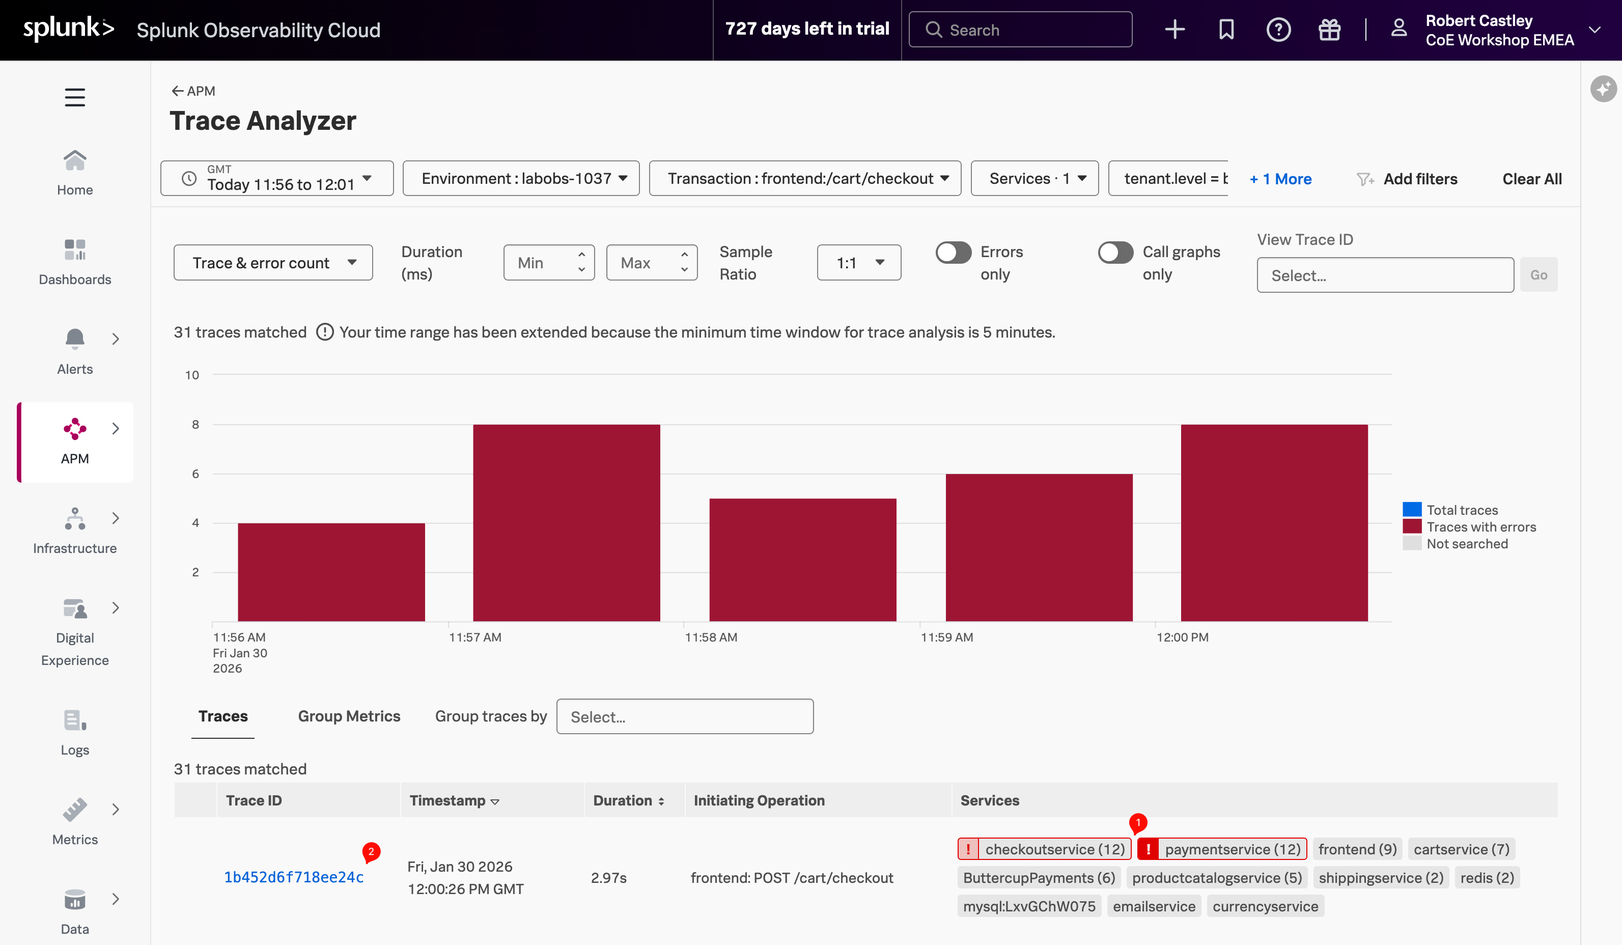
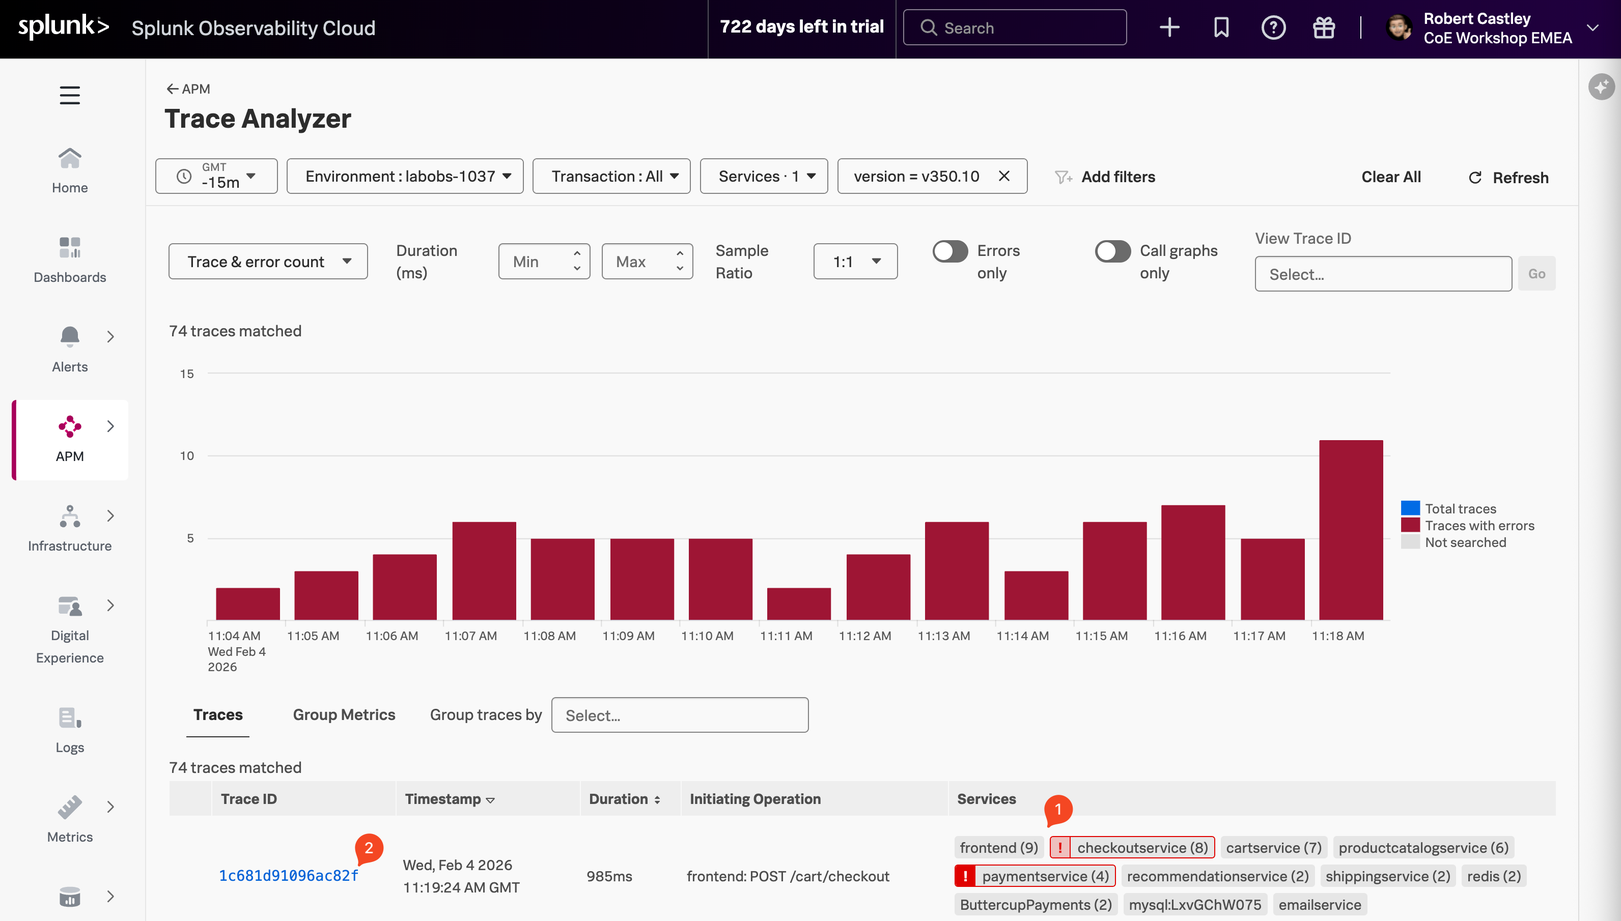
Improved APM workflow

diff --git a/content/en/splunk4rookies/observability-cloud/8-synthetics/4-synthetics-detector.md b/content/en/splunk4rookies/observability-cloud/8-synthetics/4-synthetics-detector.md
@@ -14,12 +14,12 @@ Given you can run these tests 24/7, it is an ideal tool to get warned early if y
 * Select the workshop test again and click the {{% button %}}**Create Detector**{{% /button %}} button at the top of the page.
 
   ![synth detector](../images/synth-detector.png)
-* Edit the text **New Synthetics Detector** (**1**) and replace it with `INITIALS - [WORKSHOPNAME]`.
+* Edit the text **New Synthetics Detector** **(1)** and replace it with `INITIALS - [WORKSHOPNAME]`.
 * Change the alert criteria so that the metric is Run Duration (instead of Uptime) and the condition is Static Threshold.
-* Set the **Trigger threshold** (**2**) to be around `65,000` to `68,000` and hit enter to update the chart.  Make sure you have more than one spike cutting through the threshold line as shown above (you may have to adjust the threshold value a bit to match your actual latency).
+* Set the **Trigger threshold** **(2)** to be around `65,000` to `68,000` and hit enter to update the chart.  Make sure you have more than one spike cutting through the threshold line as shown above (you may have to adjust the threshold value a bit to match your actual latency).
 * Leave the rest as default.
-* Note that there is now a row of red and white triangles appearing below the spikes (**3**). The red triangles let you know that your detector found that your test was above the given threshold & the white triangle indicates that the result returned below the threshold. Each red triangle will trigger an alert.
-* You can change the Alerts criticality (**4**) by changing the drop-down to a different level, as well as the method of alerting.  Make sure you do **NOT** add a Recipient as this could lead to you being subjected to an alert storm!
+* Note that there is now a row of red and white triangles appearing below the spikes **(3)**. The red triangles let you know that your detector found that your test was above the given threshold & the white triangle indicates that the result returned below the threshold. Each red triangle will trigger an alert.
+* You can change the Alerts criticality **(4)** by changing the drop-down to a different level, as well as the method of alerting.  Make sure you do **NOT** add a Recipient as this could lead to you being subjected to an alert storm!
 * Click {{% button style="blue" %}}Activate{{% /button %}} to deploy your detector.
 * To see your new created detector click {{% button %}}Edit Test{{% /button %}} button
 * At the bottom of the page is a list of active detectors.

diff --git a/content/en/splunk4rookies/financial-services-observability-cloud/3-quick-tour/4-infrastructure-home/1-infrastructure-home.md b/content/en/splunk4rookies/financial-services-observability-cloud/3-quick-tour/4-infrastructure-home/1-infrastructure-home.md
@@ -18,7 +18,7 @@ Using the Infrastructure pane, we can select the infrastructure/technology we ar
 
 {{% notice title="Exercise" style="green" icon="running" %}}
 
-* Under the **Containers** section in the Integrations Pane (**3**), select **Kubernetes** as the technology you wish to examine.
+* Under the **Containers** section in the Integrations Pane **(3)**, select **Kubernetes** as the technology you wish to examine.
 * This should show you two tiles, **K8s Nodes** and **K8s Workloads**.
 * The bottom part of each tile will have a history graph and the top part will show notifications for alerts that fired. Across all tiles, this additional information on each of the tiles will give you a good overview of the health of your infrastructure.
 * Click on the **K8s Nodes** tile.
@@ -28,8 +28,8 @@ Using the Infrastructure pane, we can select the infrastructure/technology we ar
 
   ![cluster](../images/k8s-cluster.png)
 
-* The Kubernetes Navigator uses color to indicate health. As you can see there are two pods or services that are unhealthy and in a Failed state (**1**). The rest are healthy and running. This is not uncommon in shared Kubernetes environments, so we replicated that for the workshop.
-* Note the tiles to the side, under **Nodes dependencies** (**2**), specifically the MySQL and Redis tiles. These are the two databases used by our e-commerce application.
+* The Kubernetes Navigator uses color to indicate health. As you can see there are two pods or services that are unhealthy and in a Failed state **(1)**. The rest are healthy and running. This is not uncommon in shared Kubernetes environments, so we replicated that for the workshop.
+* Note the tiles to the side, under **Nodes dependencies** **(2)**, specifically the MySQL and Redis tiles. These are the two databases used by our e-commerce application.
 
 {{% /notice %}}
 
@@ -54,7 +54,7 @@ The UI will show services that are running on the node you have selected if they
 {{< /tabs >}}
 
 * Click the tile, it will bring us back into the Kubernetes Navigator, this time at the Pod level showing the Pod that runs the Redis Service.
-* To return to the Cluster level, simply click on the link **Cluster** (**1**) at the top of the screen.
+* To return to the Cluster level, simply click on the link **Cluster** **(1)** at the top of the screen.
 
 ![node](../images/node-link.png)
 

diff --git a/content/en/splunk4rookies/observability-cloud/3-quick-tour/6-infrastructure-home/1-infrastructure-home.md b/content/en/splunk4rookies/observability-cloud/3-quick-tour/6-infrastructure-home/1-infrastructure-home.md
@@ -18,7 +18,7 @@ Using the Infrastructure pane, we can select the infrastructure/technology we ar
 
 {{% notice title="Exercise" style="green" icon="running" %}}
 
-* Under the **Containers** section in the Integrations Pane (**3**), select **Kubernetes** as the technology you wish to examine.
+* Under the **Containers** section in the Integrations Pane **(3)**, select **Kubernetes** as the technology you wish to examine.
 * This should show you two tiles, **K8s Nodes** and **K8s Workloads**.
 * The bottom part of each tile will have a history graph and the top part will show notifications for alerts that fired. Across all tiles, this additional information on each of the tiles will give you a good overview of the health of your infrastructure.
 * Click on the **K8s Nodes** tile.
@@ -28,8 +28,8 @@ Using the Infrastructure pane, we can select the infrastructure/technology we ar
 
   ![cluster](../images/k8s-cluster.png)
 
-* The Kubernetes Navigator uses color to indicate health. As you can see there are two pods or services that are unhealthy and in a Failed state (**1**). The rest are healthy and running. This is not uncommon in shared Kubernetes environments, so we replicated that for the workshop.
-* Note the tiles to the side, under **Nodes dependencies** (**2**), specifically the MySQL and Redis tiles. These are the two databases used by our e-commerce application.
+* The Kubernetes Navigator uses color to indicate health. As you can see there are two pods or services that are unhealthy and in a Failed state **(1)**. The rest are healthy and running. This is not uncommon in shared Kubernetes environments, so we replicated that for the workshop.
+* Note the tiles to the side, under **Nodes dependencies** **(2)**, specifically the MySQL and Redis tiles. These are the two databases used by our e-commerce application.
 
 {{% /notice %}}
 
@@ -54,7 +54,7 @@ The UI will show services that are running on the node you have selected if they
 {{< /tabs >}}
 
 * Click the tile, it will bring us back into the Kubernetes Navigator, this time at the Pod level showing the Pod that runs the Redis Service.
-* To return to the Cluster level, simply click on the link **Cluster** (**1**) at the top of the screen.
+* To return to the Cluster level, simply click on the link **Cluster** **(1)** at the top of the screen.
 
 ![node](../images/node-link.png)
 

diff --git a/content/en/splunk4rookies/financial-services-observability-cloud/6-custom-dashboard/2-add-chart.md b/content/en/splunk4rookies/financial-services-observability-cloud/6-custom-dashboard/2-add-chart.md
@@ -12,11 +12,11 @@ In this section, we are going to use the **Copy and Paste** functionality to ext
 * Select the **2+** at the top of the page and select **Paste charts**, this will create the charts in your custom dashboard.
 * The chart currently shows data for all **Environments** and **Services**, so let's add a filter for our environment and the **paymentservice**.
 * Click on the 3 dots **...** at the top right side of the **Request Rate** single value chart. This will open the chart in edit mode.
-* In the new screen, click on the **x** in the {{% button style="blue" %}}sf_environment:* x{{% /button %}} button (**1**) in the middle of the screen to close it.
+* In the new screen, click on the **x** in the {{% button style="blue" %}}sf_environment:* x{{% /button %}} button **(1)** in the middle of the screen to close it.
 * Click on the {{% button style="blue" %}}**+**{{% /button %}}  to add a new filter and select **sf_environment** then pick the [WORKSHOPNAME] from the drop-down and hit **Apply**. The button will change to **sf_environment:[WORKSHOPNAME]**
-* Do the same with for the {{% button style="blue" %}}sf_service.{{% /button %}} button (**2**), close it and create a new filter for **sf_service**. Only this time change it to `paymentservice`.
+* Do the same with for the {{% button style="blue" %}}sf_service.{{% /button %}} button **(2)**, close it and create a new filter for **sf_service**. Only this time change it to `paymentservice`.
   ![edit chart](../images/edit-chart.png)
-* Click the {{% button style="blue" %}}Save and close {{% /button %}} button (**3**).
+* Click the {{% button style="blue" %}}Save and close {{% /button %}} button **(3)**.
 * Repeat the previous 4 steps for the **Request Rate** text chart
 * Click {{% button style="blue" %}}Save{{% /button %}} after you  have update the two charts.
 * As the new pasted charts appeared at the bottom of our dashboard, we need to re-organize our dashboard again.

diff --git a/content/en/splunk4rookies/observability-cloud/9-custom-dashboard/2-add-chart.md b/content/en/splunk4rookies/observability-cloud/9-custom-dashboard/2-add-chart.md
@@ -12,11 +12,11 @@ In this section, we are going to use the **Copy and Paste** functionality to ext
 * Select the **2+** at the top of the page and select **Paste charts**, this will create the charts in your custom dashboard.
 * The chart currently shows data for all **Environments** and **Services**, so let's add a filter for our environment and the **paymentservice**.
 * Click on the 3 dots **...** at the top right side of the **Request Rate** single value chart. This will open the chart in edit mode.
-* In the new screen, click on the **x** in the {{% button style="blue" %}}sf_environment:* x{{% /button %}} button (**1**) in the middle of the screen to close it.
+* In the new screen, click on the **x** in the {{% button style="blue" %}}sf_environment:* x{{% /button %}} button **(1)** in the middle of the screen to close it.
 * Click on the {{% button style="blue" %}}**+**{{% /button %}}  to add a new filter and select **sf_environment** then pick the [WORKSHOPNAME] from the drop-down and hit **Apply**. The button will change to **sf_environment:[WORKSHOPNAME]**
-* Do the same with for the {{% button style="blue" %}}sf_service.{{% /button %}} button (**2**), close it and create a new filter for **sf_service**. Only this time change it to `paymentservice`.
+* Do the same with for the {{% button style="blue" %}}sf_service.{{% /button %}} button **(2)**, close it and create a new filter for **sf_service**. Only this time change it to `paymentservice`.
   ![edit chart](../images/edit-chart.png)
-* Click the {{% button style="blue" %}}Save and close {{% /button %}} button (**3**).
+* Click the {{% button style="blue" %}}Save and close {{% /button %}} button **(3)**.
 * Repeat the previous 4 steps for the **Request Rate** text chart
 * Click {{% button style="blue" %}}Save{{% /button %}} after you  have update the two charts.
 * As the new pasted charts appeared at the bottom of our dashboard, we need to re-organize our dashboard again.

diff --git a/content/en/splunk4rookies/financial-services-observability-cloud/5-log-observer/1-log-filtering.md b/content/en/splunk4rookies/financial-services-observability-cloud/5-log-observer/1-log-filtering.md
@@ -5,7 +5,7 @@ weight: 1
 
 **Log Observer (LO)**, can be used in multiple ways. In the quick tour, you used the LO **no-code interface** to search for specific entries in the logs. This section, however, assumes you have arrived in LO from a trace in APM using the **Related Content** link.
 
-The advantage of this is, as it was with the link between RUM & APM, that you are looking at your logs within the context of your previous actions.  In this case, the context is the time frame (**1**),  which matches that of the trace and the filter (**2**) which is set to the **trace_id**.
+The advantage of this is, as it was with the link between RUM & APM, that you are looking at your logs within the context of your previous actions.  In this case, the context is the time frame **(1)**,  which matches that of the trace and the filter **(2)** which is set to the **trace_id**.
 
 ![Trace Logs](../images/log-observer-trace-logs.png)
 
@@ -20,7 +20,7 @@ We need to focus on just the Error messages in the logs:
 * Click on the **Group By** drop-down box and use the filter to find **Severity**.
 * Once selected click the {{% button style="blue" %}}Apply{{% /button %}} button (notice that the chart legend changes to show debug, error and info).
   ![legend](../images/severity-logs.png)
-* Selecting just the error logs can be done by either clicking on the word error (**1**) in the legend, followed by selecting **Add to filter**. Then click {{% button style="blue" %}}Run Search{{% /button %}}
+* Selecting just the error logs can be done by either clicking on the word error **(1)** in the legend, followed by selecting **Add to filter**. Then click {{% button style="blue" %}}Run Search{{% /button %}}
 * You could also add the service name, `sf_service=wire-transfer-service`, to the filter if there are error lines for multiple services, but in our case, this is not necessary.
   ![Error Logs](../images/log-observer-errors.png)
 

diff --git a/content/en/splunk4rookies/observability-cloud/7-log-observer/1-log-filtering.md b/content/en/splunk4rookies/observability-cloud/7-log-observer/1-log-filtering.md
@@ -5,7 +5,7 @@ weight: 1
 
 **Log Observer (LO)**, can be used in multiple ways. In the quick tour, you used the LO **no-code interface** to search for specific entries in the logs. This section, however, assumes you have arrived in LO from a trace in APM using the **Related Content** link.
 
-The advantage of this is, as it was with the link between RUM & APM, that you are looking at your logs within the context of your previous actions.  In this case, the context is the time frame (**1**),  which matches that of the trace and the filter (**2**) which is set to the **trace_id**.
+The advantage of this is, as it was with the link between RUM & APM, that you are looking at your logs within the context of your previous actions.  In this case, the context is the time frame **(1)**,  which matches that of the trace and the filter **(2)** which is set to the **trace_id**.
 
 ![Trace Logs](../images/log-observer-trace-logs.png)
 
@@ -20,7 +20,7 @@ We need to focus on just the Error messages in the logs:
 * Click on the **Group By** drop-down box and use the filter to find **Severity**.
 * Once selected click the {{% button style="blue" %}}Apply{{% /button %}} button (notice that the chart legend changes to show debug, error and info).
   ![legend](../images/severity-logs.png)
-* Selecting just the error logs can be done by either clicking on the word error (**1**) in the legend, followed by selecting **Add to filter**. Then click {{% button style="blue" %}}Run Search{{% /button %}}
+* Selecting just the error logs can be done by either clicking on the word error **(1)** in the legend, followed by selecting **Add to filter**. Then click {{% button style="blue" %}}Run Search{{% /button %}}
 * You could also add the service name, `sf_service=paymentservice`, to the filter if there are error lines for multiple services, but in our case, this is not necessary.
   ![Error Logs](../images/log-observer-errors.png)
 

diff --git a/content/en/splunk4rookies/WIL - Cisco Live/4-apm/4-apm-service-breakdown.md b/content/en/splunk4rookies/WIL - Cisco Live/4-apm/4-apm-service-breakdown.md
@@ -7,25 +7,22 @@ weight: 4
 
 * Select the **paymentservice** in the Service Map.
 * In the right-hand pane click on the {{% button style="grey"  %}}Breakdown{{% /button %}}.
-* Select `tenant.level` in the list.
-* Back in the Service Map click on **gold**.
-* Click on {{% button style="grey"  %}}Breakdown{{% /button %}} and select `version`, this is the tag that exposes the service version.
-* Repeat this for **silver** and **bronze**.
+* Select `version` in the list.
 {{< tabs >}}
 {{% tab title="Question" %}}
 **What can you conclude from what you are seeing?**
 {{% /tab %}}
 {{% tab title="Answer" %}}
-**Every `tenant.level` is being impacted by `v350.10`**
+**There are no errors for `v350.9`, but `v350.10` clearly has a problem.**
 {{% /tab %}}
 {{< /tabs >}}
 
 ![APM Service Breakdown](../images/apm-service-breakdown.png)
 
 {{% notice title="Span Tags" style="info" %}}
-Using span tags to break down services is a very powerful feature. It allows you to see how your services are performing for different customers, different versions, different regions, etc. In this exercise, we have determined that `v350.10` of the **paymentservice** is causing problems for all our customers.
+Using span tags to break down services is a very powerful feature. It allows you to see how your services are performing for different customers, different versions, different regions, etc. In this exercise, we have determined that `v350.10` of the **paymentservice** is causing problems.
 {{% /notice %}}
 
-* Next, we need to drill down into a trace to see what is going on. Select one of the red circles in the **paymentservice**, then click on the **Traces** tab in the right-hand pane.
+* Next, we need to drill down into a trace to see what is going on. Click on the red circle for `v350.10` **(1)** in the **paymentservice**, then click on the **Traces** **(2)** tab in the right-hand pane.
 
 {{% /notice %}}

diff --git a/content/en/splunk4rookies/WIL - Cisco Live/3-rum/1-rum-overview.md b/content/en/splunk4rookies/WIL - Cisco Live/3-rum/1-rum-overview.md
@@ -5,7 +5,7 @@ weight: 1
 
 {{% notice title="Exercise" style="green" icon="running" %}}
 
-* In Splunk Observability Cloud, from the main menu, hover over **Digital Experience**, then click on **Overview** (**1**) from the **Real User Monitoring** section as shown below.
+* In Splunk Observability Cloud, from the main menu, hover over **Digital Experience**, then click on **Overview** **(1)** from the **Real User Monitoring** section as shown below.
 
 ![RUM](../images/rum-de.png)
 
@@ -13,12 +13,12 @@ weight: 1
 
 * The Real User Monitoring (RUM) Overview dashboard in Splunk Observability Cloud provides visibility into how real users experience your web applications. It captures browser-side performance metrics, JavaScript errors, and network request failures as they occur in actual user sessions. The dashboard surfaces Core Web Vitals (LCP, INP, CLS) to measure page load performance, displays error trends over time, and shows recent alerts, giving frontend teams the insights needed to identify and resolve issues affecting end-user experience.
 
-* To ensure we are looking at the right data, please check the following settings (**2**):
+* To ensure we are looking at the right data, please check the following settings **(2)**:
   * The **Time frame** is set to **-15m**.
   * The **Environment** selected is **labobs-1037**.
   * The **App** selected is **labobs-1037-store**.
   * The **Source** is set to **Browser**.
-* Next, click on the **labobs-1037-store** (**3**) above the **Page Views / JavaScript Errors** chart.
+* Next, click on the **labobs-1037-store** **(3)** above the **Page Views / JavaScript Errors** chart.
 
 ![main page](../images/rum-dashboard.png)
 

diff --git a/content/en/splunk4rookies/WIL - Cisco Live/4-apm/1-apm-service-map.md b/content/en/splunk4rookies/WIL - Cisco Live/4-apm/1-apm-service-map.md
@@ -11,21 +11,20 @@ You can see the services involved in the workflow in the **Service Map**. In the
 
 {{% notice title="Exercise" style="green" icon="running" %}}
 
-* Click on the **paymentservice** in the Service Map.
+* Click on the **paymentservice** in the Service Map to select it.
 
 ![APM Explore](../images/apm-business-workflow.png)
 
-Splunk APM also provides built-in **Service Centric Views** to help you see problems occurring in real time and quickly determine whether the problem is associated with a service, a specific endpoint, or the underlying infrastructure. Let's have a closer look.
-
 {{< tabs >}}
 {{% tab title="Question" %}}
-**With the `paymentservice` selected, what can you conclude from the Service Requests & Errors chart in the side pane?** (**1**)
+**With the `paymentservice` selected, what can you conclude from the Service Requests & Errors chart in the side pane?** **(1)**
 {{% /tab %}}
 {{% tab title="Answer" %}}
 **The Errors percentage is very high.**
 {{% /tab %}}
 {{< /tabs >}}
 
-* In the right-hand pane, click on **paymentservice** in blue (**2**).
+* Splunk APM also provides built-in **Service Centric Views** to help you see problems occurring in real time and quickly determine whether the problem is associated with a service, a specific endpoint, or the underlying infrastructure. Let's have a closer look.
+* In the right-hand pane, click on **paymentservice** in blue **(2)**.
 
 {{% /notice %}}

diff --git a/content/en/splunk4rookies/WIL - Cisco Live/3-rum/3-tag-spotlight.md b/content/en/splunk4rookies/WIL - Cisco Live/3-rum/3-tag-spotlight.md
@@ -9,11 +9,11 @@ weight: 3
 
 ![RUM Tag Spotlight](../images/rum-tag-spotlight.png)
 
-* Change the timeframe to **Last 1 hour** (**1**).
-<!--* Click **Add Filters**, select **OS Version**, click **!=** and select **Synthetics** and **RUM.LoadGen** then click the {{% button style="blue" %}}Apply Filter{{% /button %}} button (**2**).-->
-* Find the **Operation** chart, locate **PlaceOrder** in the list, click on it and select **Add to filter** (**2**).
-* Click on the **User Sessions** tab (**3**).
-* Click on the **Duration** heading twice to sort the sessions by duration (longest at the top) (**4**).
+* Change the timeframe to **Last 1 hour** **(1)**.
+<!--* Click **Add Filters**, select **OS Version**, click **!=** and select **Synthetics** and **RUM.LoadGen** then click the {{% button style="blue" %}}Apply Filter{{% /button %}} button **(2)**.-->
+* Find the **Operation** chart, locate **PlaceOrder** in the list, click on it and select **Add to filter** **(2)**.
+* Click on the **User Sessions** tab **(3)**.
+* Click on the **Duration** heading twice to sort the sessions by duration (longest at the top) **(4)**.
 
 * We now have a User Session table sorted by longest duration (descending), showing users who have been shopping on the site. We could apply more filters to further narrow down the data, e.g. OS version, browser version, etc.
 

diff --git a/content/en/splunk4rookies/observability-cloud/9-custom-dashboard/3-custom-chart.md b/content/en/splunk4rookies/observability-cloud/9-custom-dashboard/3-custom-chart.md
@@ -18,7 +18,7 @@ In this part of the workshop we are going to create a chart that we will add to 
 * From the drop-down choose the **Mean** option, then pick `mean:aggregation` and click outside the dialog box. Notice how the chart changes to a single color as the metrics are now aggregated.
 * The x-axis does not currently represent time to change this click on the settings {{% icon icon="cog" %}} icon at the end of the plot line. The following following dialog will open:
   ![signal setup](../images/signal-setup.png)
-* Change the **Display units** (**2**) in the drop-down box from **None** to **Time (autoscaling)/Milliseconds(ms)**. The drop-down changes to **Millisecond** and the x-axis of the chart now represents the test duration time.
+* Change the **Display units** **(2)** in the drop-down box from **None** to **Time (autoscaling)/Milliseconds(ms)**. The drop-down changes to **Millisecond** and the x-axis of the chart now represents the test duration time.
 * Close the dialog, either by clicking on the settings {{% icon icon="cog" %}} icon or the {{% button style="gray" %}}close{{% /button %}} button.
 * Add our detector by clicking the {{% button style="blue" %}}Link Detector{{% /button %}} button and start typing the name of the detector you created earlier.
 * Click on the detector name to select it.
